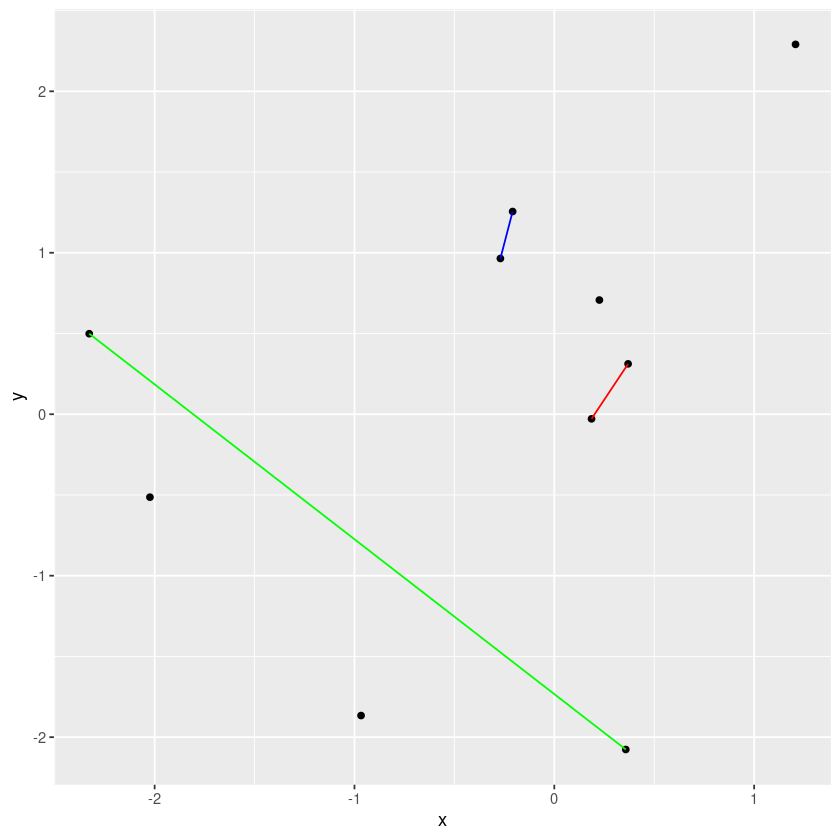
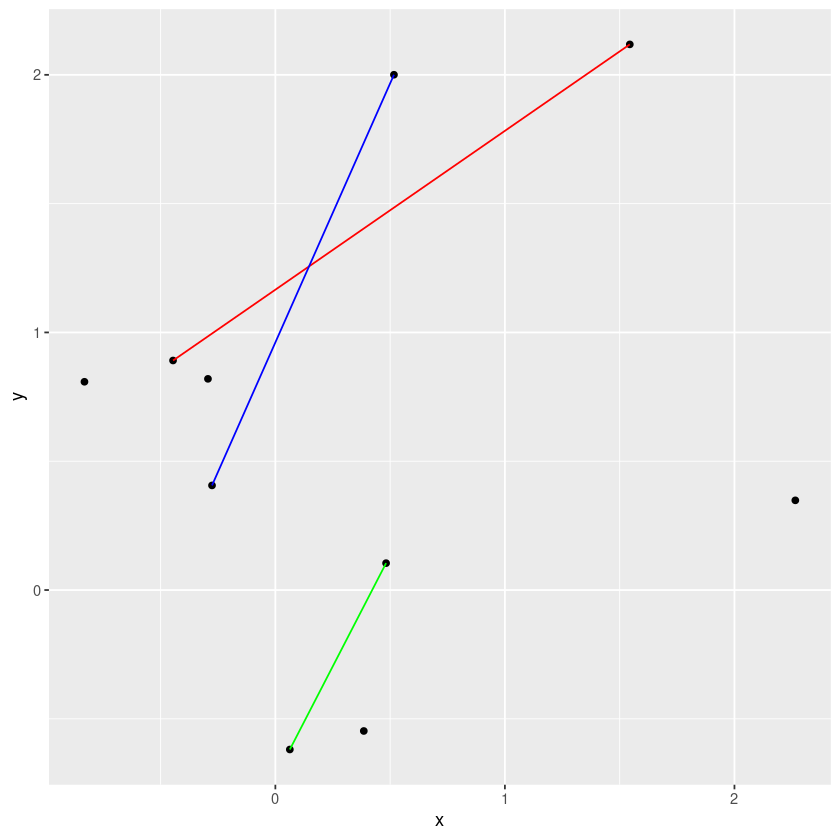
Built site for gh-pages

diff --git a/lectures/Lecture2.html b/lectures/Lecture2.html
@@ -698,8 +698,8 @@ x_n ={}&amp; \alpha_1 \y_n + \alpha_0 + \gamma_n.
 <div class="sourceCode cell-code" id="cb10"><pre class="sourceCode r code-with-copy"><code class="sourceCode r"><span id="cb10-1"><a href="#cb10-1" aria-hidden="true" tabindex="-1"></a><span class="fu">cat</span>(<span class="st">"Least absolute deviation time:</span><span class="sc">\t</span><span class="st">"</span>, least_abs_time, <span class="st">"</span><span class="sc">\n</span><span class="st">"</span>)</span>
 <span id="cb10-2"><a href="#cb10-2" aria-hidden="true" tabindex="-1"></a><span class="fu">cat</span>(<span class="st">"Least squares time:</span><span class="sc">\t\t</span><span class="st">"</span>, least_squares_time, <span class="st">"</span><span class="sc">\n</span><span class="st">"</span>)</span></code><button title="Copy to Clipboard" class="code-copy-button"><i class="bi"></i></button></pre></div>
 <div class="cell-output cell-output-stdout">
-<pre><code>Least absolute deviation time:   0.165724 
-Least squares time:      0.003508091 </code></pre>
+<pre><code>Least absolute deviation time:   0.2395434 
+Least squares time:      0.005156755 </code></pre>
 </div>
 </div>
 <p>Least squares took much longer! Why? We’ll talk about that shortly.</p>
@@ -768,7 +768,7 @@ With 7 buckets, we have 0.003 observations per bucket. </code></pre>
 </div>
 </div>
 <p>So the strength of regression for EDA is really in higher-dimensional settings. For example, if we wanted to look at all the outputs at once:</p>
-<div class="cell" data-tags="[]" data-execution_count="17">
+<div class="cell" data-tags="[]" data-execution_count="16">
 <div class="sourceCode cell-code" id="cb18"><pre class="sourceCode r code-with-copy"><code class="sourceCode r"><span id="cb18-1"><a href="#cb18-1" aria-hidden="true" tabindex="-1"></a>lm_formula <span class="ot">&lt;-</span></span>
 <span id="cb18-2"><a href="#cb18-2" aria-hidden="true" tabindex="-1"></a>  <span class="fu">paste0</span>(<span class="st">"track_popularity ~ 1 + "</span>,</span>
 <span id="cb18-3"><a href="#cb18-3" aria-hidden="true" tabindex="-1"></a>         <span class="fu">paste</span>(regressors, <span class="at">collapse=</span><span class="st">" + "</span>))</span>
@@ -827,7 +827,7 @@ F-statistic: 295.8 on 7 and 32825 DF,  p-value: &lt; 2.2e-16
 </div>
 </div>
 <p>Note that the high dimensional fit can look a bit chaotic when projected onto one dimension:</p>
-<div class="cell" data-tags="[]" data-execution_count="18">
+<div class="cell" data-tags="[]" data-execution_count="17">
 <div class="sourceCode cell-code" id="cb20"><pre class="sourceCode r code-with-copy"><code class="sourceCode r"><span id="cb20-1"><a href="#cb20-1" aria-hidden="true" tabindex="-1"></a><span class="fu">PlotBaseSpotify</span>() <span class="sc">+</span></span>
 <span id="cb20-2"><a href="#cb20-2" aria-hidden="true" tabindex="-1"></a>  <span class="fu">geom_line</span>(<span class="fu">aes</span>(<span class="at">y=</span>spotify_reg_all<span class="sc">$</span>fitted.values, </span>
 <span id="cb20-3"><a href="#cb20-3" aria-hidden="true" tabindex="-1"></a>                <span class="at">color=</span><span class="st">"Y ~ X high dimensional least squares "</span>)) <span class="sc">+</span></span>

diff --git a/index.html b/index.html
@@ -246,6 +246,19 @@ No matching items
 <p><strong>GSI</strong>: Dohyeong Ki<br> <img src="images/dohyeongki.jpg" class="img-fluid" alt="Dohyoeng Ki"><br> Office: TBD Evans Hall<br> Office hours: 3:30pm-5:30pm Thursdays (subject to change)<br> <code>dohyeong_ki@berkeley.edu</code><br> pronouns: He / him</p>
 </div>
 </div>
+<div class="callout callout-style-default callout-note callout-titled">
+<div class="callout-header d-flex align-content-center">
+<div class="callout-icon-container">
+<i class="callout-icon"></i>
+</div>
+<div class="callout-title-container flex-fill">
+Note
+</div>
+</div>
+<div class="callout-body-container callout-body">
+<p>Class on Thursday Jan 18th will be held in-person in Etcheverry 3108.</p>
+</div>
+</div>
 <div class="callout callout-style-default callout-important callout-titled">
 <div class="callout-header d-flex align-content-center">
 <div class="callout-icon-container">
